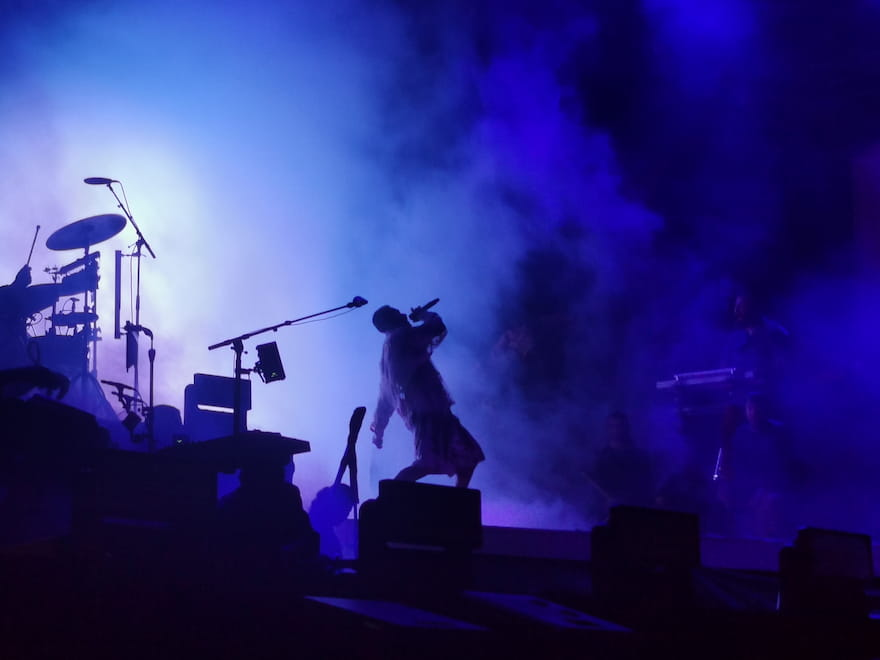
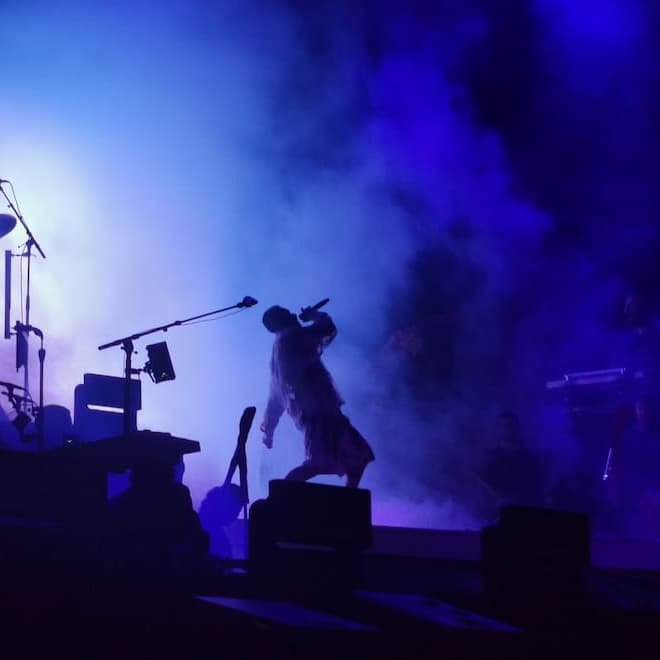
Fix photography page (#51)
* feat(testimonials): system spacing, uniform quotes, shared carousel chevrons and progress bar

* fix(photography): align carousel to the grid and move chevrons beside the row from md

* fix(photography): use design-system spacing on the photography page

* perf(photography): crop photos to 660px squares and recompress (2.4 MB to 1.4 MB)

* fix(photography): keep the mobile right chevron legible over photos in both themes

* fix(ui): drop the mobile tap highlight on buttons and icon buttons

diff --git a/src/components/photography/PhotoCarousel.tsx b/src/components/photography/PhotoCarousel.tsx
@@ -13,7 +13,8 @@ type PhotoCarouselProps = {
 };
 
 const THUMB_MIN_WIDTH_PERCENT = (11.05 / 30.11) * 100;
-const chevronClasses = 'icon-button absolute top-1/2 -translate-y-1/2';
+const chevronClasses =
+  'icon-button shrink-0 max-md:absolute max-md:top-1/2 max-md:-translate-y-1/2';
 
 export function PhotoCarousel({
   images,
@@ -28,15 +29,15 @@ export function PhotoCarousel({
   });
 
   return (
-    <div className="-ml-1.25 -mr-1">
-      <div className="relative">
+    <div>
+      <div className="relative md:flex md:items-center md:gap-4">
         <button
           type="button"
           onClick={() => scrollByItem(-1)}
           aria-label={previousLabel}
           aria-controls={rowId}
           aria-disabled={atStart}
-          className={`${chevronClasses} left-0`}
+          className={`${chevronClasses} max-md:left-0`}
         >
           <ChevronLeft aria-hidden="true" />
         </button>
@@ -47,7 +48,7 @@ export function PhotoCarousel({
           role="list"
           tabIndex={0}
           aria-label={label}
-          className="ml-[7.46%] flex snap-x snap-mandatory gap-8 overflow-x-auto scrollbar-none focus-visible:outline-2 focus-visible:outline-offset-2 focus-visible:outline-focus"
+          className="flex snap-x snap-mandatory gap-8 overflow-x-auto scrollbar-none max-md:ml-[7.46%] md:min-w-0 md:flex-1 focus-visible:outline-2 focus-visible:outline-offset-2 focus-visible:outline-focus"
         >
           {images.map((image, index) => {
             const eager = priority && index === 0;
@@ -75,13 +76,16 @@ export function PhotoCarousel({
           aria-label={nextLabel}
           aria-controls={rowId}
           aria-disabled={atEnd}
-          className={`${chevronClasses} right-[4.14%]`}
+          className={`${chevronClasses} icon-button-on-photo max-md:right-[4.14%]`}
         >
           <ChevronRight aria-hidden="true" />
         </button>
       </div>
 
-      <ScrollProgress thumbRef={thumbRef} className="mt-3.5 ml-[38.67%] w-[30.11%]" />
+      <ScrollProgress
+        thumbRef={thumbRef}
+        className="mt-4 w-[30.11%] max-md:ml-[38.67%] md:mx-auto"
+      />
     </div>
   );
 }

diff --git a/src/styles/index.css b/src/styles/index.css
@@ -78,6 +78,7 @@
     line-height: var(--text-label--line-height);
 
     cursor: pointer;
+    -webkit-tap-highlight-color: transparent;
 
     transition:
       background 150ms ease,
@@ -174,6 +175,7 @@
 
     color: var(--icon-color);
     cursor: pointer;
+    -webkit-tap-highlight-color: transparent;
     filter: drop-shadow(var(--drop-shadow-icon));
     transition:
       color 300ms ease-in,
@@ -226,13 +228,32 @@
     opacity: 0.4;
   }
 
-  /* Social links: .icon-button in the accent colour, which stays on press */
+  .icon-button-on-photo {
+    @variant max-md {
+      --icon-color: var(--color-paper);
+      --icon-halo: drop-shadow(0 0 1px var(--color-ink)) drop-shadow(0 0 2px var(--color-ink));
+      filter: var(--icon-halo);
+    }
+  }
+
+  .icon-button-on-photo:not(:disabled, [aria-disabled='true']) {
+    @variant max-md {
+      @variant hover {
+        filter: var(--icon-halo) drop-shadow(0 0 6px var(--icon-glow));
+      }
+    }
+  }
+
+  .icon-button-on-photo:active:not(:disabled, [aria-disabled='true']) {
+    @variant max-md {
+      filter: var(--icon-halo);
+    }
+  }
+
   .social-link {
     --icon-color: var(--color-icon-accent);
     --icon-pressed-color: var(--color-icon-accent);
   }
-
-  /* No touch target: at the 20px gap, neighbouring targets would overlap */
   .social-link::before {
     content: none;
   }
@@ -255,7 +276,6 @@
     text-align: center;
   }
 
-  /* Gradient title: page titles and home section titles */
   .title-gradient {
     @apply font-display text-h1 font-bold bg-gradient-text bg-clip-text text-transparent;
   }

diff --git a/src/components/photography/PhotographyCategorySection.tsx b/src/components/photography/PhotographyCategorySection.tsx
@@ -28,7 +28,7 @@ export function PhotographyCategorySection({
 
   return (
     <Section space="none" aria-labelledby={titleId} className="flex flex-col">
-      <h2 id={titleId} className="badge mb-9">
+      <h2 id={titleId} className="badge mb-8">
         {title}
       </h2>
 
@@ -40,7 +40,7 @@ export function PhotographyCategorySection({
         priority={priority}
       />
 
-      <Link to={`${routes.photography}/${category.slug}`} className="btn btn-primary mt-3.75 w-fit">
+      <Link to={`${routes.photography}/${category.slug}`} className="btn btn-primary mt-4 w-fit">
         {t.viewAll}
         <span className="sr-only"> {t.viewAllCategory(title)}</span>
 

diff --git a/src/pages/Photography.tsx b/src/pages/Photography.tsx
@@ -9,12 +9,12 @@ function Photography() {
 
   return (
     <div className="page-grid">
-      <PageContainer className="pt-2.5 pb-10.25">
-        <header className="mb-9.25">
+      <PageContainer className="pt-2.5 pb-16 lg:pb-24">
+        <header className="mb-8">
           <h1 className="title-gradient">{t.title}</h1>
         </header>
 
-        <div className="flex flex-col gap-10.5">
+        <div className="flex flex-col gap-12 lg:gap-16">
           {photographyCategories.map((category, index) => (
             <PhotographyCategorySection
               key={category.slug}
